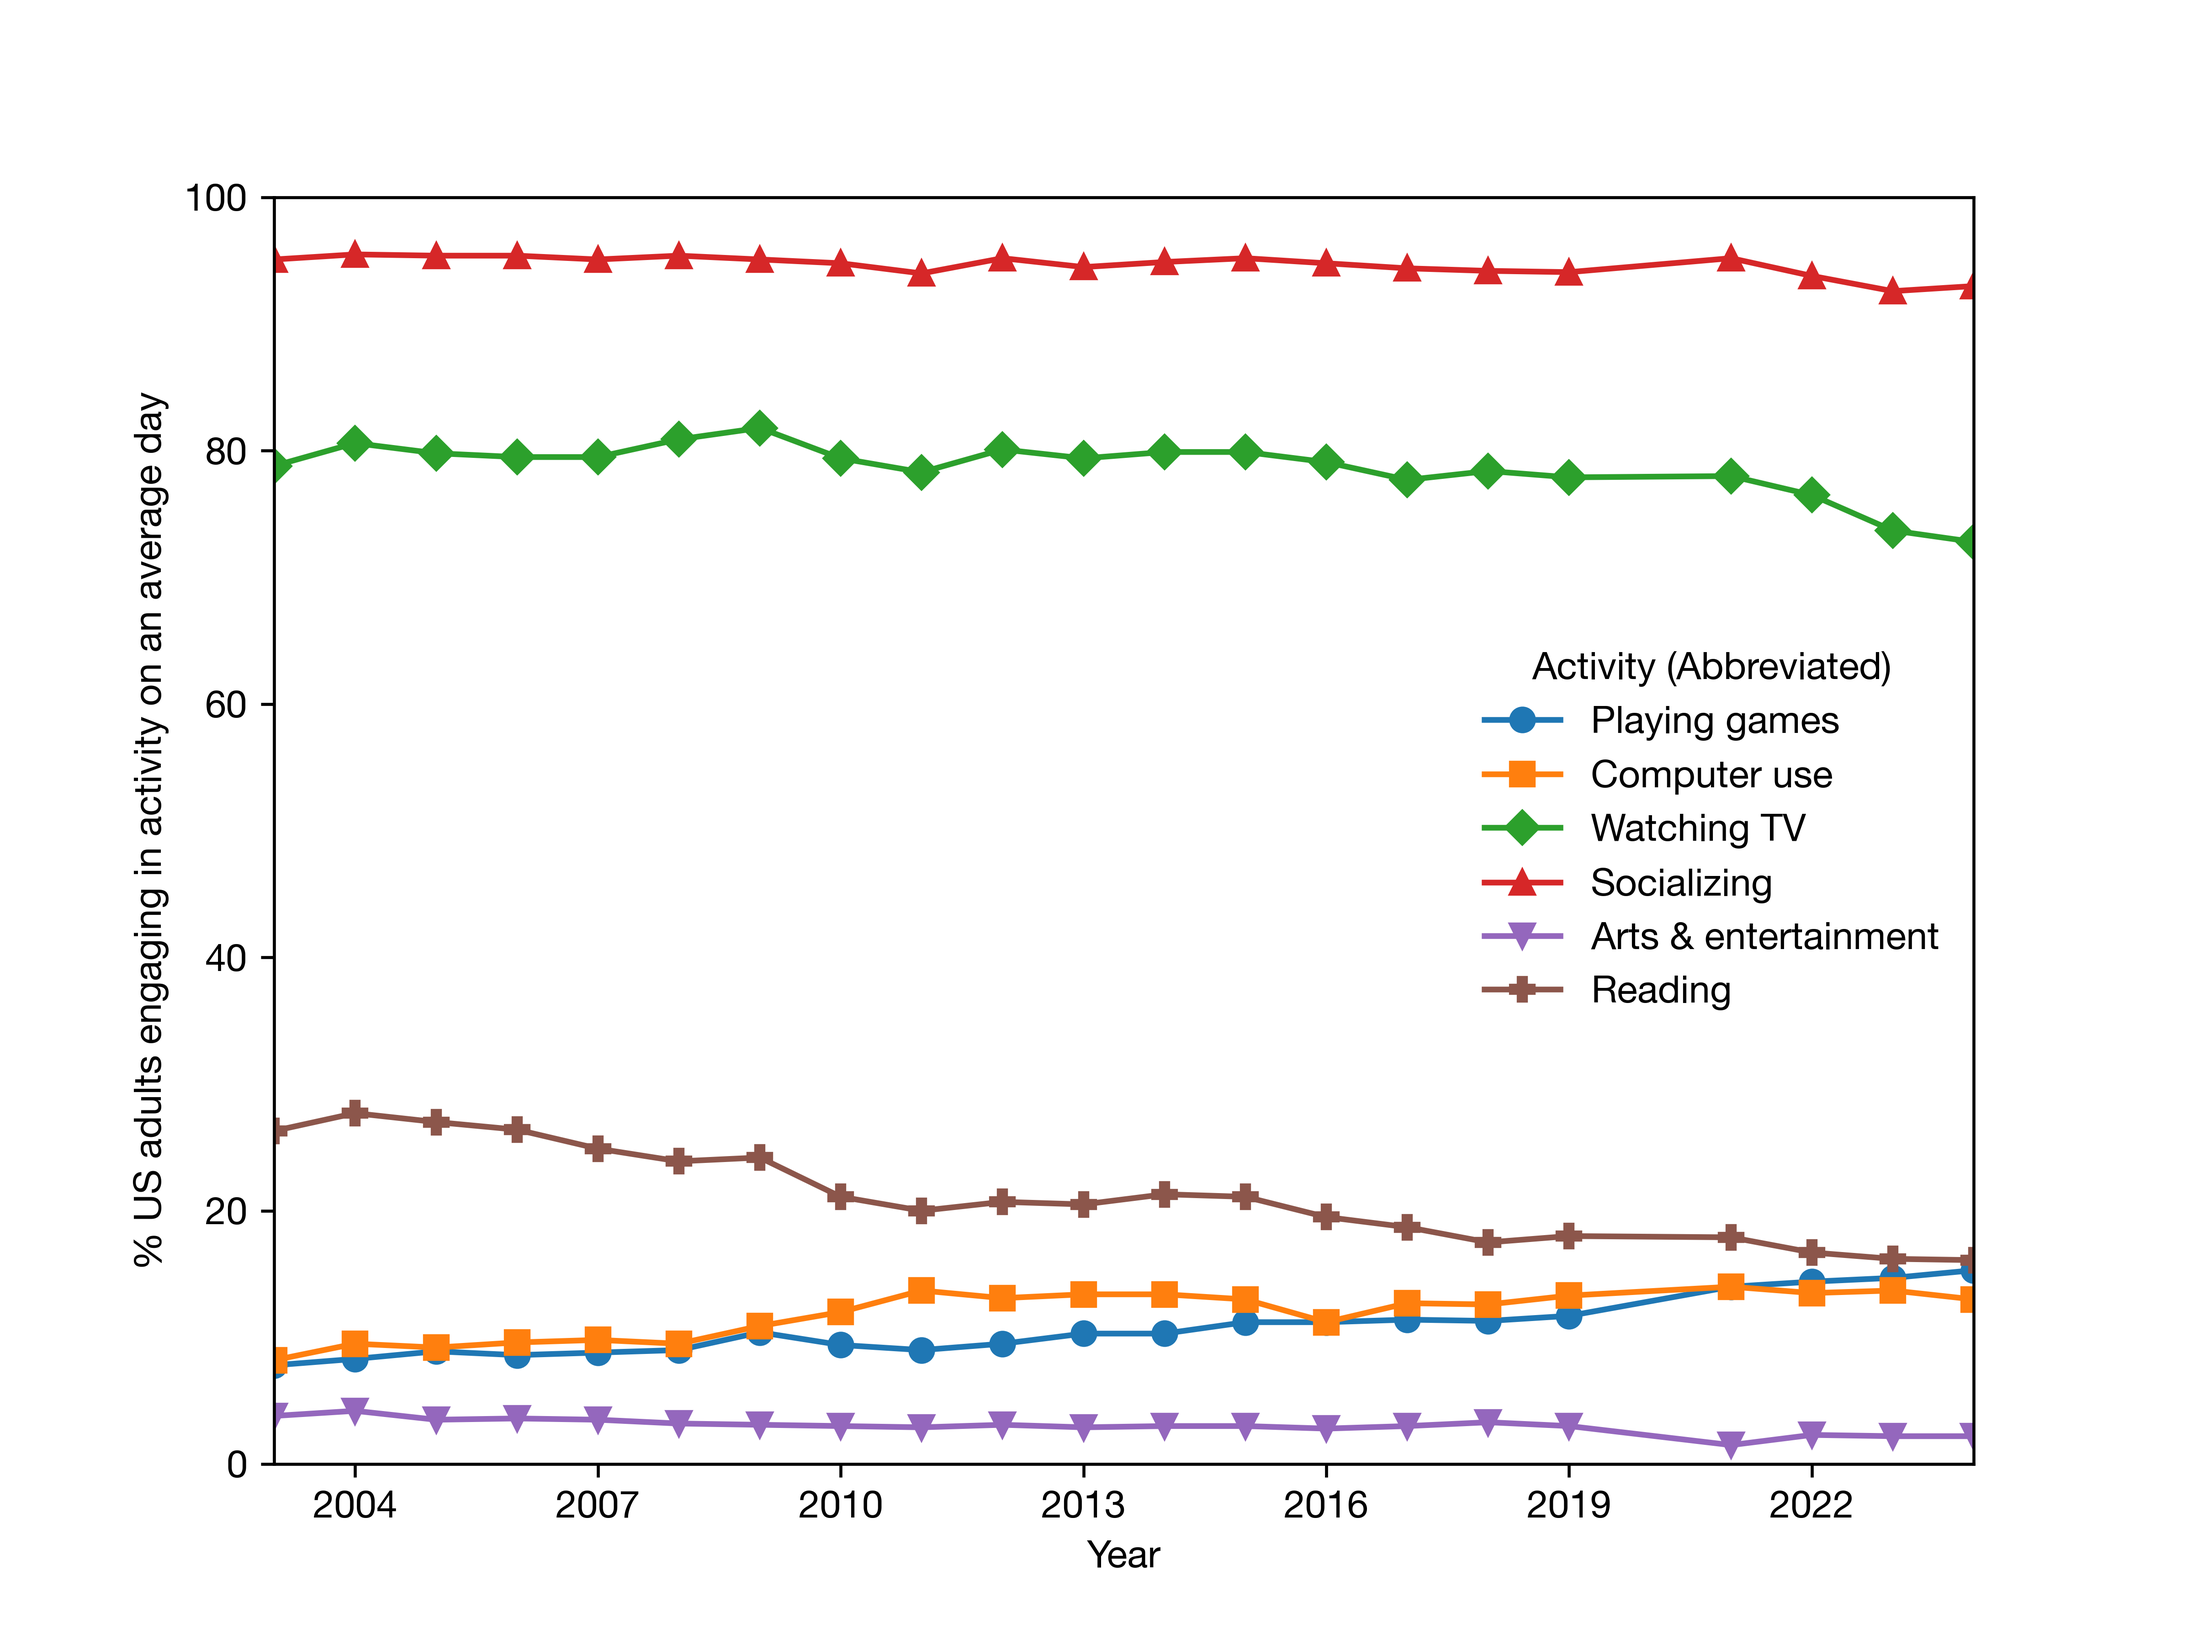
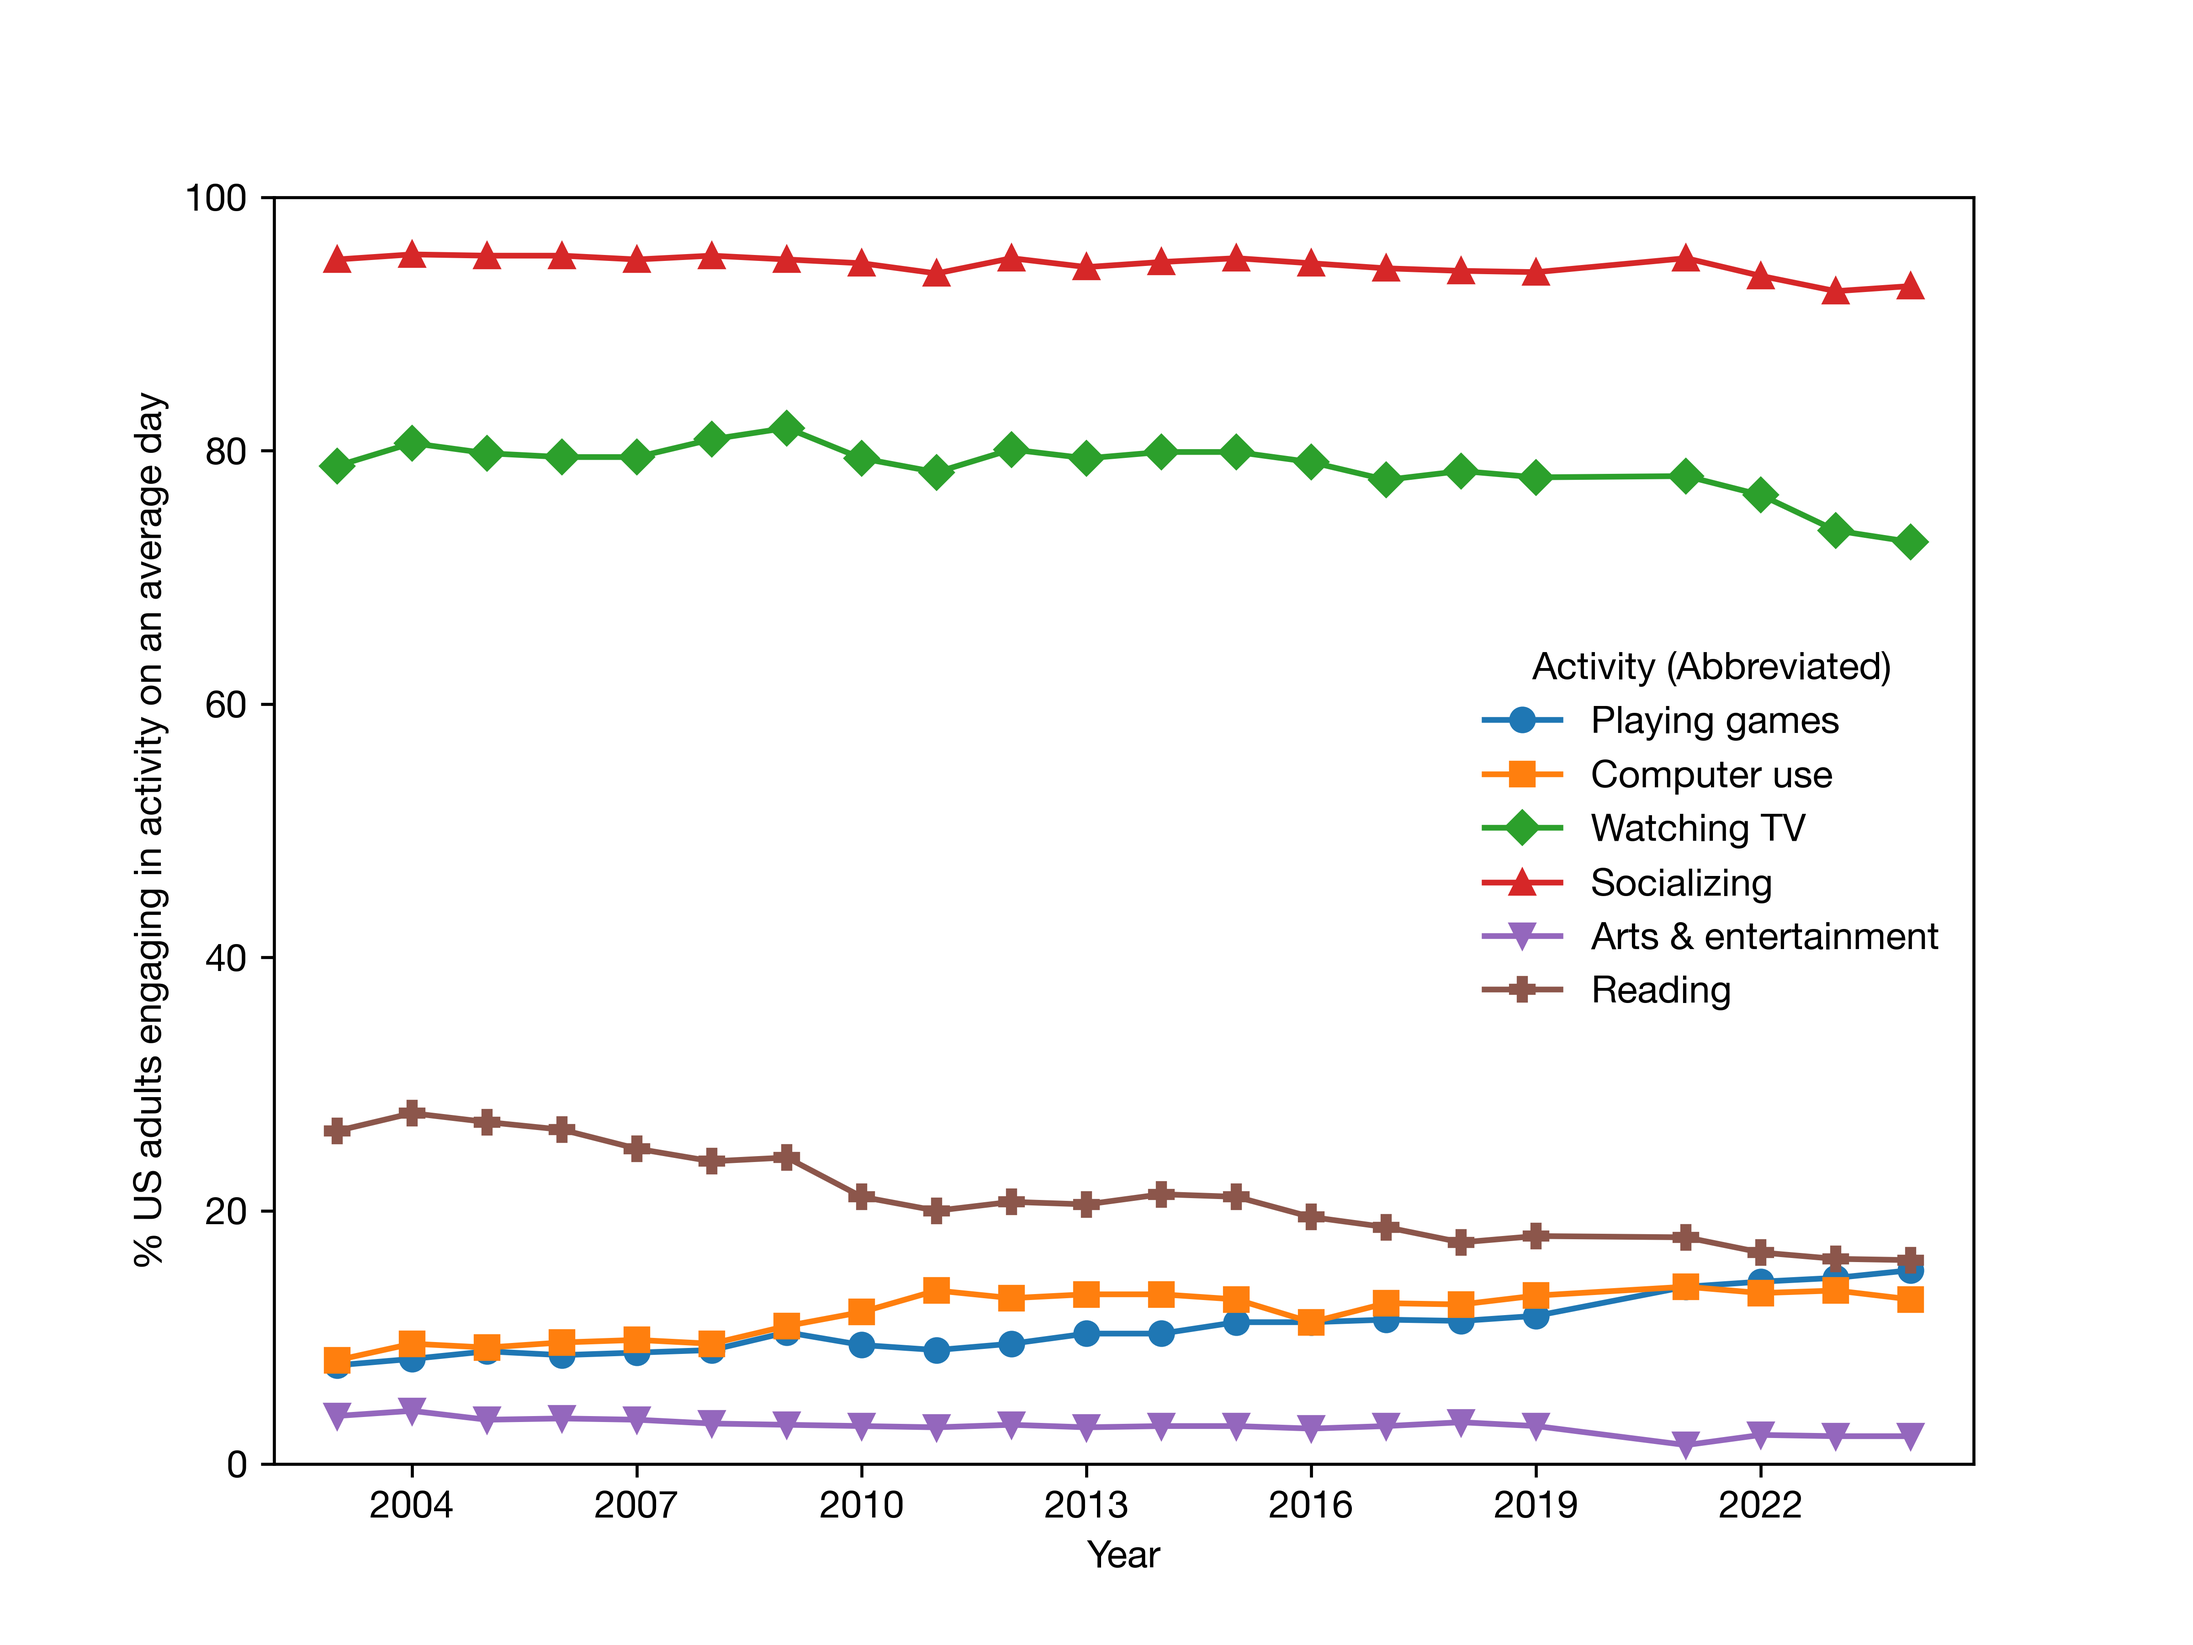
pad x-axis so edge markers are fully visible
Add 4% padding on each side of the data range when setting xlim, matching
the auto-margin behavior that fig1.png already had. Previously, scripts
that called set_xlim(min_year, max_year) clipped markers at the extremes.

diff --git a/scripts/figures/atus_prediction.py b/scripts/figures/atus_prediction.py
@@ -168,7 +168,10 @@ def main() -> None:
     step = max(1, math.ceil(n_years / 8))
     ax.set_xlabel("Year")
     ax.set_ylabel("% US adults reading for personal interest on an average day")
-    ax.set_xlim(pd.to_datetime(min_year, format="%Y"), pd.to_datetime(end_year, format="%Y"))
+    min_year_ts = pd.to_datetime(min_year, format="%Y")
+    max_year_ts = pd.to_datetime(end_year, format="%Y")
+    padding = (max_year_ts - min_year_ts) * 0.04
+    ax.set_xlim(min_year_ts - padding, max_year_ts + padding)
     ax.xaxis.set_major_locator(mdates.YearLocator(base=step))
     ax.xaxis.set_major_formatter(mdates.DateFormatter("%Y"))
     ax.set_ylim(0, max(values) + 5)

diff --git a/scripts/figures/ltt.py b/scripts/figures/ltt.py
@@ -64,7 +64,8 @@ def plot_weekly_reading_by_age(
 
     ax.set_xlabel("Year")
     ax.set_ylabel("% US students reading weekly or more often")
-    ax.set_xlim(min_year, max_year)
+    padding = (max_year - min_year) * 0.04
+    ax.set_xlim(min_year - padding, max_year + padding)
     ax.xaxis.set_major_locator(mdates.YearLocator(base=step))
     ax.xaxis.set_major_formatter(mdates.DateFormatter("%Y"))
     ax.set_ylim(0, 100)

diff --git a/scripts/figures/sppa.py b/scripts/figures/sppa.py
@@ -56,7 +56,10 @@ def _plot_timeseries(
 
     ax.set_xlabel("Year")
     ax.set_ylabel(ylabel)
-    ax.set_xticks(sorted(df["Year"].unique()))
+    years = sorted(df["Year"].unique())
+    ax.set_xticks(years)
+    padding = (years[-1] - years[0]) * 0.04
+    ax.set_xlim(years[0] - padding, years[-1] + padding)
     ax.xaxis.set_major_formatter(mdates.DateFormatter("%Y"))
     if ylim is not None:
         ax.set_ylim(*ylim)

diff --git a/scripts/figures/atus_ed.py b/scripts/figures/atus_ed.py
@@ -64,7 +64,8 @@ def plot_education_timeseries(
 
     ax.set_xlabel("Year")
     ax.set_ylabel(ylabel)
-    ax.set_xlim(min_year, max_year)
+    padding = (max_year - min_year) * 0.04
+    ax.set_xlim(min_year - padding, max_year + padding)
     ax.xaxis.set_major_locator(mdates.YearLocator(base=step))
     ax.xaxis.set_major_formatter(mdates.DateFormatter("%Y"))
     if ylim is not None:

diff --git a/scripts/figures/atus.py b/scripts/figures/atus.py
@@ -62,7 +62,8 @@ def plot_activity_timeseries(
 
     ax.set_xlabel("Year")
     ax.set_ylabel(ylabel)
-    ax.set_xlim(min_year, max_year)
+    padding = (max_year - min_year) * 0.04
+    ax.set_xlim(min_year - padding, max_year + padding)
     ax.xaxis.set_major_locator(mdates.YearLocator(base=step))
     ax.xaxis.set_major_formatter(mdates.DateFormatter("%Y"))
     if ylim is not None:
